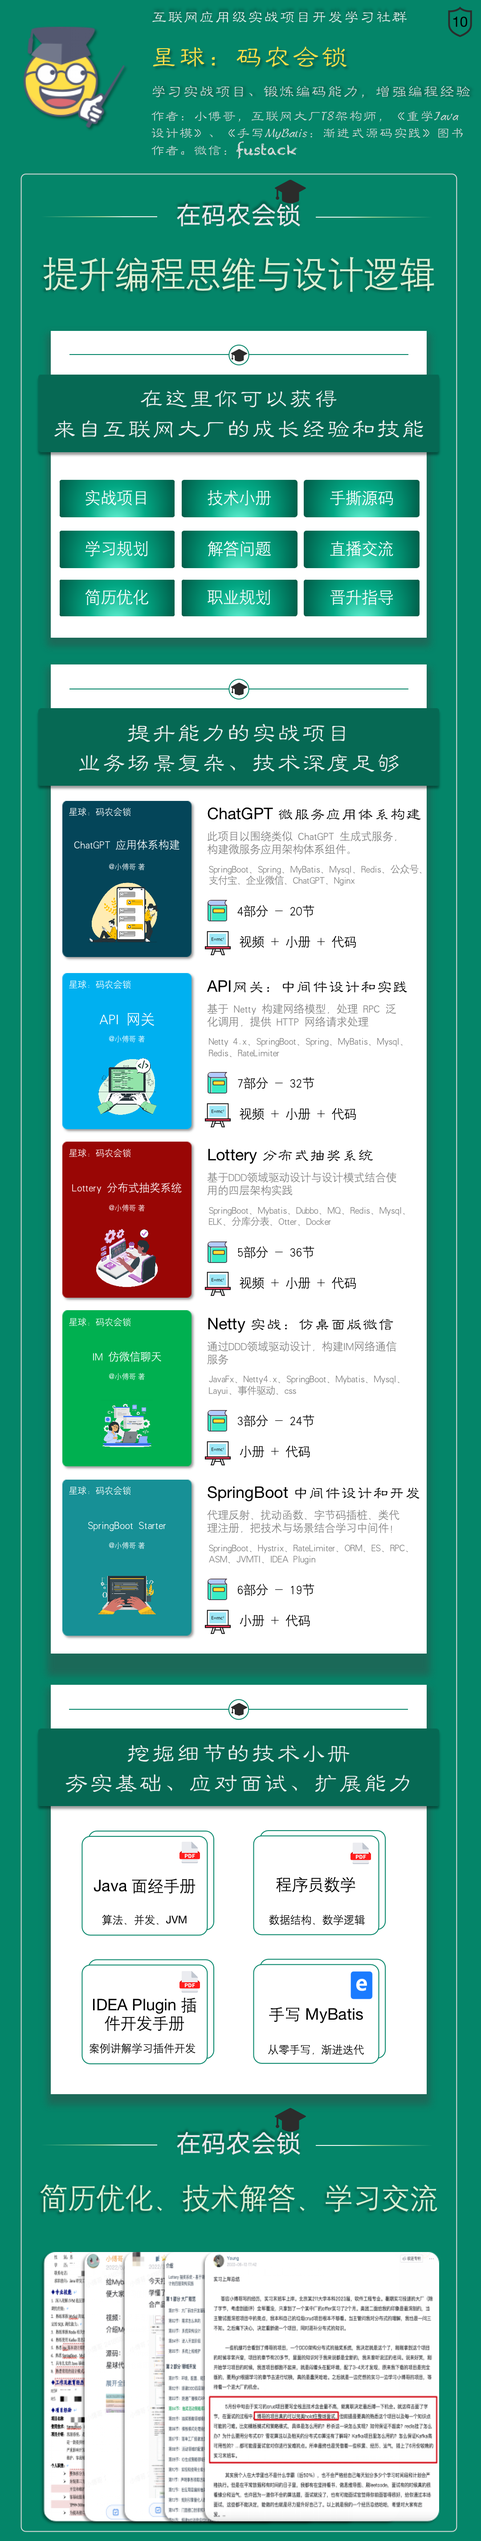
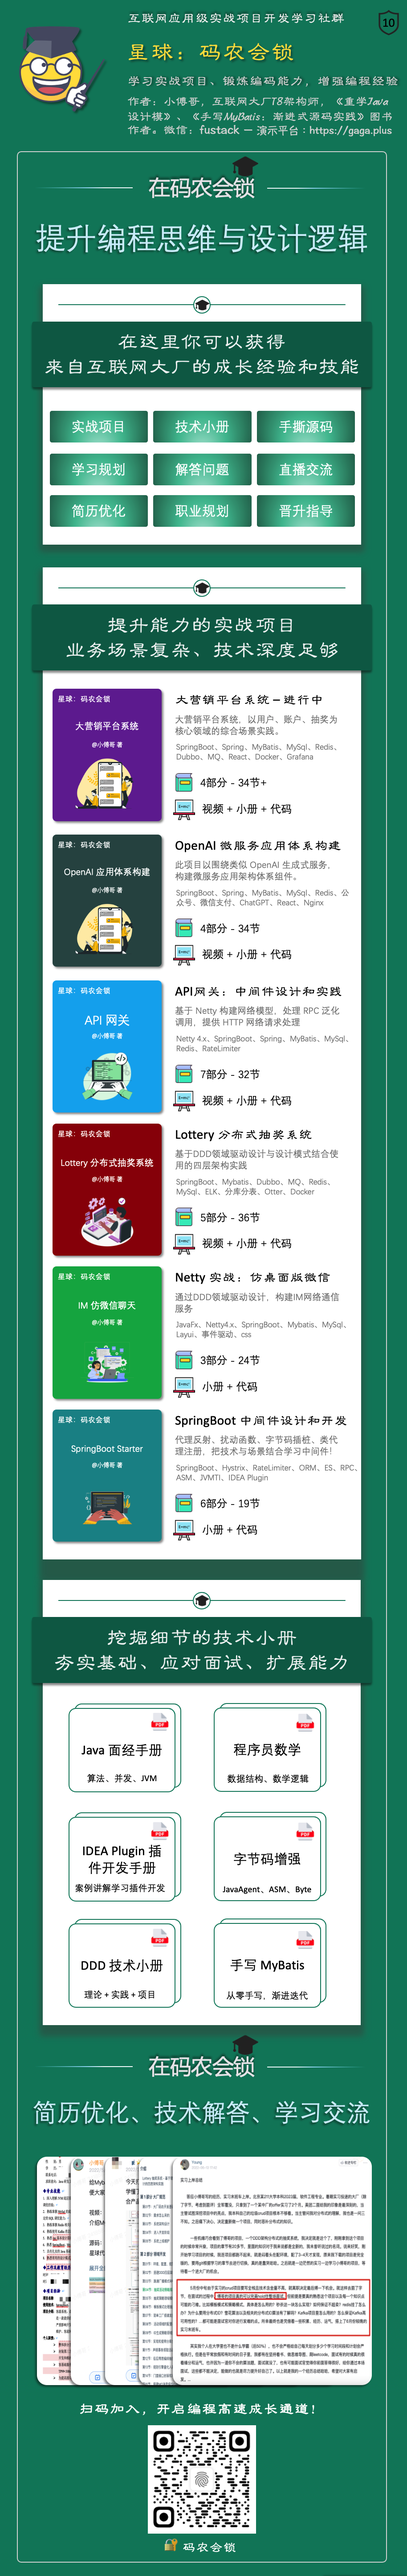
feat：更新

diff --git a/docs/.vuepress/theme/components/PageSidebar.vue b/docs/.vuepress/theme/components/PageSidebar.vue
@@ -103,21 +103,21 @@
         </div>
       </div>
 
-      <div class="option-box" v-on:mouseover="showToc($event)" v-on:mouseout="hideToc($event)">
-        <img class="nozoom" src="/images/system/heart-1.png" width="25px" />
-        <span class="show-txt">赞赏我</span>
-        <div class="toc-container">
-            <div class="pos-box">
-              <div class="icon-arrow"></div>
-              <div class="scroll-box" style="text-align:center" >
-                <span style="font-size:0.8rem;font-weight:bold;">鼓励/支持/赞赏我</span>
-                <img height="180px" src="/images/personal/encourage-head.png" style="margin:5px;"/>
-                <br>1. 不靠它生存但仍希望得到你的鼓励；
-                <br>2. 时刻警醒自己保持技术人的初心，沉淀，分享，成长；
-              </div>
-            </div>
-        </div>
-      </div>
+<!--      <div class="option-box" v-on:mouseover="showToc($event)" v-on:mouseout="hideToc($event)">-->
+<!--        <img class="nozoom" src="/images/system/heart-1.png" width="25px" />-->
+<!--        <span class="show-txt">赞赏我</span>-->
+<!--        <div class="toc-container">-->
+<!--            <div class="pos-box">-->
+<!--              <div class="icon-arrow"></div>-->
+<!--              <div class="scroll-box" style="text-align:center" >-->
+<!--                <span style="font-size:0.8rem;font-weight:bold;">鼓励/支持/赞赏我</span>-->
+<!--                <img height="180px" src="/images/personal/encourage-head.png" style="margin:5px;"/>-->
+<!--                <br>1. 不靠它生存但仍希望得到你的鼓励；-->
+<!--                <br>2. 时刻警醒自己保持技术人的初心，沉淀，分享，成长；-->
+<!--              </div>-->
+<!--            </div>-->
+<!--        </div>-->
+<!--      </div>-->
 
       <div class="option-box" v-if="prev" style="padding-left:2px;text-align:center;" v-bind:title="prev.title">
           <router-link v-if="prev" :to="prev.path" >

diff --git a/docs/md/zsxq/memorabilia/overall.md b/docs/md/zsxq/memorabilia/overall.md
@@ -26,11 +26,7 @@ lock: no
 - 星球的内容主要分为四部分；`学习路线 - 帮你简明扼要的规划学习`、`项目实战 - 助你提升编程经验锻炼开发能力`、`辅导学习 - 1v1的问题解答直接了当节省时间`、`应对面试 - 手把手优化简历提高建议，让你收割Offer！`
 - 接下来小傅哥就分别介绍下这部分内容，让小伙伴可以放心食用！
 
-<div align="center">
-    <img src="https://bugstack.cn/images/system/zsxq/coupon.png?raw=true" width="400px">
-    <div style="font-size: 9px;">知识星球【码农会锁】- T8级别架构师，帮你提升编程能力，少走弯路技术圈子！</div>
-</div>
-
+>[🧧加入学习](https://bugstack.cn/md/zsxq/other/join.html)
 ## 一、学习路线
 
 Java 编写学习，首先要明确从哪开始到哪结束。但这个过程以我的学习经验可以告诉你，你并不需要一个特别大的，特别杂的学习路线。因为那样只会让你疲惫😫在学习路线的路上，没到终点就累嘎了。
@@ -162,10 +158,7 @@ Java 编写学习，首先要明确从哪开始到哪结束。但这个过程以
 
 ---
 
-<div align="center">
-    <img src="https://bugstack.cn/images/system/zsxq/coupon.png?raw=true" width="400px">
-    <div style="font-size: 9px;">知识星球【码农会锁】- T8级别架构师，帮你提升编程能力，少走弯路技术圈子！</div>
-</div>
+>[🧧加入学习](https://bugstack.cn/md/zsxq/other/join.html)
 
 1. 星球内的服务和实战项目都是小傅哥本人提供和**原创**，相信能够给大家带来**超过该价格的价值** 。举个例子，渐进式手把手带大家做**进大厂才可能看得见的项目**、有笔记有源码、有问题可以提，这比单独买一个课程或一套源码要值得多。其实都不到大城市一节补习班的钱，**哪怕把我的课程时长换算成培训机构的课时，也是便宜的超级多**。
 2. 持续的内容创作 + 回答问题 + 知识星球的运营(简历批阅、就业指导、架构设计) 需要小傅哥每个早上6点-8点以及周末/假期持续维护。也希望加入星球的同学都是真的下定了决心想要进步，而不是像免费的交流群和社区一样 “闲聊扯淡”。

diff --git a/docs/md/zsxq/other/join.md b/docs/md/zsxq/other/join.md
@@ -5,20 +5,18 @@ lock: no
 
 # 加入星球
 
-星球价格 **￥159** 一年，老用户续费 **5折** 一年（星球每年都会开发新的学习项目和技术小册等资料）。
+星球嘎嘎实惠，星球一直不断的开发新的学习项目和技术小册等资料！
 
-优惠名额有限、先到先得，微信扫描下方二维码领券加入：加入后阅读[使用指南：🔜快速了解，开启学习之旅！](https://bugstack.cn/md/zsxq/material/guide.html)
-
->加入 3 天内可以全额退款，感兴趣的同学可以先加入体验，自己判断是否有价值。
+>感兴趣的同学可以先加入体验，自己判断是否有价值，不满意可退出。
 
 <div align="center">
-    <img src="https://bugstack.cn/images/article/zsxq/zsxq-youhuiquan.png" width="400px">
+    <img src="https://bugstack.cn/assets/images/zsxq/zsxq-join-01.png" width="450px">
     <br/>
     <div style="font-size: 9px;">关注小傅哥的公众号【bugstack虫洞栈】回复【星球】也可以领取专属优惠券</div>
     <br/>
 </div>
 
-🌹加入后，这些内容都是你的，**这片鱼塘**都给你了！—— 目前已有8700+伙伴在星球学习！
+🌹加入后，这些内容都是你的，**这片鱼塘**都给你了！—— 目前已有1万+伙伴在星球学习！
 
 <div align="center">
     <img src="https://bugstack.cn/images/system/zsxq/zsxq-booklet.png" width="650px">

diff --git a/docs/md/zsxq/project/openai-sdk-java.md b/docs/md/zsxq/project/openai-sdk-java.md
@@ -98,11 +98,7 @@ lock: no
 
 如果大家希望通过做有价值的编程项目，提高自己的编程思维和编码能力，可以加入小傅哥的【星球：码农会锁】。加入后解锁🔓所有往期项目，还可以学习后续新开发的项目。
 
->这样一套项目，放在一些平台售卖，一个至少都是几百块。但小傅哥的星球，只需要100多，就可以获得全部的学习项目！
-
-<div align="center">
-    <img src="https://bugstack.cn/images/article/zsxq/zsxq-youhuiquan.png?raw=true" width="350px">
-</div>
+>[🧧加入学习](https://bugstack.cn/md/zsxq/other/join.html) 这样一套项目，放在一些平台售卖，一个至少都是几百块。但小傅哥的星球，只需要100多，就可以获得全部的学习项目！
 
 **加入星球**：下载`星球APP`，从星球【课程入口】进入。里面有完整的学习指引，包括；使用说明、代码仓库、专属项目群、学习路线、往期项目。本项目地址：[https://t.zsxq.com/14EPV92wK](https://t.zsxq.com/14EPV92wK)
 

diff --git a/docs/md/zsxq/project/big-market.md b/docs/md/zsxq/project/big-market.md
@@ -123,11 +123,7 @@ lock: no
 
 如果大家希望通过做有价值的编程项目，提高自己的编程思维和编码能力，可以加入小傅哥的【星球：码农会锁】。加入后解锁🔓所有往期项目，还可以学习后续新开发的项目。
 
->这样一套项目，放在一些平台售卖，一个至少都是几百块。但小傅哥的星球，只需要100多，就可以获得全部的学习项目！
-
-<div align="center">
-    <img src="https://bugstack.cn/images/article/zsxq/zsxq-youhuiquan.png?raw=true" width="350px">
-</div>
+>[🧧加入学习](https://bugstack.cn/md/zsxq/other/join.html) 这样一套项目，放在一些平台售卖，一个至少都是几百块。但小傅哥的星球，只需要100多，就可以获得全部的学习项目！
 
 **加入星球**：下载`星球APP`，从星球【课程入口】进入。里面有完整的学习指引，包括；使用说明、代码仓库、专属项目群、学习路线、往期项目。
 

diff --git a/docs/md/zsxq/memorabilia/ten-thousand.md b/docs/md/zsxq/memorabilia/ten-thousand.md
@@ -140,12 +140,7 @@ lock: no
 
 星球现在的价格为~~159~~元(-20)一年，老用户第二年续费是价格为5折。首次加入即可获🉐星球所有的项目和学习资料，第二年的续费只相当于续费新项目和我的服务。嘎嘎实惠！**可以说，你买小傅哥10年，都不到1000元！但却可以获得他全部的在大厂的积累的各种能力！**
 
-<div align="center">
-    <img src="https://bugstack.cn/images/article/zsxq/zsxq-youhuiquan.png?raw=true" width="300px">
-    <br/>
-    <div style="font-size: 12px;">加入星球后从【课程入口】进入即可看见课程归档</div>
-    <br/>
-</div>
+>[🧧加入学习](https://bugstack.cn/md/zsxq/other/join.html)
 
 伙伴说：“加入小傅哥是这一年最正确的✅的决定！” 因为我让我很多伙伴提升了技术、卷到了Offer、晋升了职级，获得了更多的收入！
 

diff --git a/docs/md/zsxq/memorabilia/biographical-notes.md b/docs/md/zsxq/memorabilia/biographical-notes.md
@@ -32,10 +32,7 @@ lock: need
 
 **注意**：`高质量的简历模板` + `有深度的技术项目` + `编写后的评审指导` = 一条龙服务🐲，**加入星球马上就能获取到**。为你的应聘加把劲，这一丢丢投资可能就换来一个 Offer 和不错薪资！
 
-<div align="center">
-    <img src="https://bugstack.cn/images/article/zsxq/zsxq-youhuiquan.png?raw=true" width="350px">
-    <div style="font-size: 12px;"><a href="https://t.zsxq.com/10FbNYBur">公众号【bugstack虫洞栈】回复【星球】可以获取加入优惠券，4个业务项目、3个组件项目、7个开源项目、4个技术小册、55个架构方案，这些都是为你准备的！要业务有业务，要轮子有轮子，而且不写CRUD，所有场景都有深度！</a></div>
-</div>
+>[🧧加入学习](https://bugstack.cn/md/zsxq/other/join.html)
 
 ### 1. 校招生
 

diff --git a/docs/md/project/chatgpt/extra/ChatGPT-v1.2.md b/docs/md/project/chatgpt/extra/ChatGPT-v1.2.md
@@ -152,9 +152,7 @@ lock: no
 - 福利1：所有今天加入的伙伴，前50名都送 4.0 的 `50万Tokens`，打开链接 [openai.itedus.cn](https://openai.itedus.cn/) - 在左下角设置里绑定即可使用。当天加入后，在星球置顶消息添加小傅哥微信，备注你的星球编号。
 - 福利2：对此文章进行留言的伙伴，点赞最高前5名用户，每人送 4.0 的 `50万Tokens` 统计时间：9月6日 7:55 ~ 9月8日 7:55 
 
-<div align="center">
-	<img src="https://bugstack.cn/images/article/zsxq/zsxq-youhuiquan.png?raw=true" width="350px"/>
-</div>
+>[🧧加入学习](https://bugstack.cn/md/zsxq/other/join.html)
 
 已经有很多伙伴开始学起来了，还有大家交的作业笔记。有了的项目驱动学习，清晰的目标感，大家冲起来也有了更明确的方向！干干干！！！
 

diff --git a/docs/md/project/chatgpt/review.md b/docs/md/project/chatgpt/review.md
@@ -139,8 +139,4 @@ OpenAi 项目，是小傅哥【星球：[码农会锁](https://wx.zsxq.com/dweb2
 
 在有了 OpenAi 项目以后，这篇山河图中的项目，都将可以落地。哪怕我想做个拼多多的砍一刀，都可以！那么，在 OpenAi 项目完全收尾后，你觉得小傅哥会启动哪个项目？可以留言评论区哦！
 
->赶紧加入星球吧，能做到这样的技术项目实战社群，真的不多！你只是投入一顿大麻辣烫💰，就🉐获得超级大的回报！
-
-<div align="center">
-    <img src="https://bugstack.cn/images/article/zsxq/zsxq-youhuiquan.png?raw=true" width="350px">
-</div>
+>[🧧加入学习](https://bugstack.cn/md/zsxq/other/join.html) 能做到这样的技术项目实战社群，真的不多！你只是投入一顿大麻辣烫💰，就🉐获得超级大的回报！

diff --git a/docs/md/road-map/ddd-archetype.md b/docs/md/road-map/ddd-archetype.md
@@ -180,9 +180,7 @@ lock: need
 - 脚手架(轻量版)：[https://gitcode.net/KnowledgePlanet/road-map/xfg-frame-archetype-lite](https://gitcode.net/KnowledgePlanet/road-map/xfg-frame-archetype-lite)
 - 脚手架(标准版)：[https://gitcode.net/KnowledgePlanet/road-map/xfg-frame-archetype-std](https://gitcode.net/KnowledgePlanet/road-map/xfg-frame-archetype-std)
 
-<div align="center">
-    <img src="https://bugstack.cn/images/article/zsxq/zsxq-youhuiquan.png?raw=true" width="300px">
-</div>
+>[🧧加入学习](https://bugstack.cn/md/zsxq/other/join.html)
 
 在星球的实战项目中，都是以这样的企业级标准进行架构设计和落地，学习这样的项目就是学习公司的项目。—— 不做 CRUD 小项目，要做真的深度积累！
 
